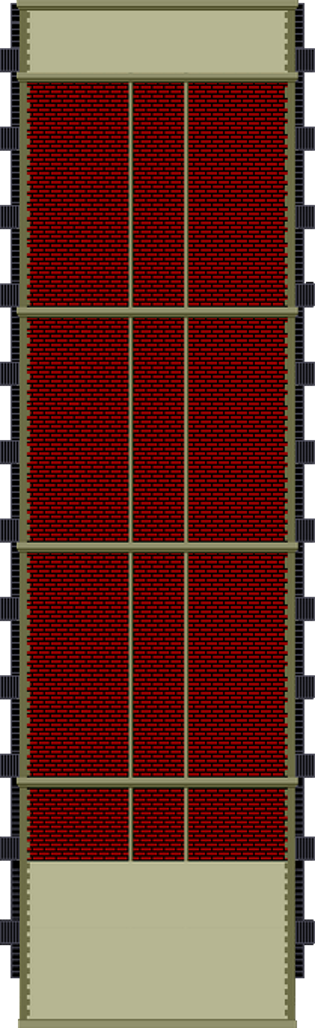
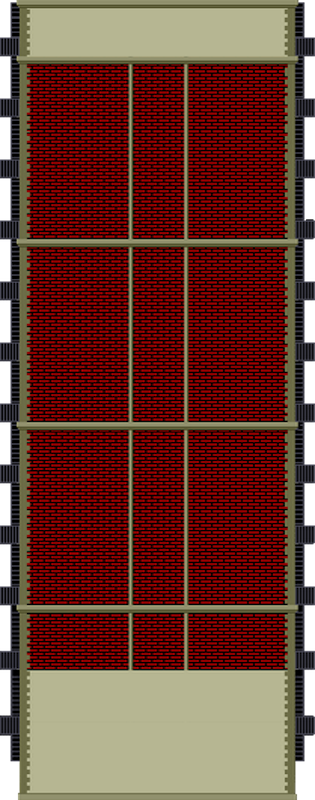
Unos pares de fixes de tamaño

diff --git a/src/grafica/menu/Play.java b/src/grafica/menu/Play.java
@@ -34,7 +34,7 @@ public class Play extends Grafica {
 		setLayout(new FlowLayout());
 		add(goBack);
 //		setContentPane(fondo);
-		setSize(919, 720);
+		setSize(800, 1028);
 		setVisible(true);
 		cargarNiceland();
 		try{
@@ -49,8 +49,8 @@ public class Play extends Grafica {
 	}
 
 	public void cargarNiceland(){
-		BufferedImage img = secciones.get("edificio_150_seccion1.png");
-		this.getGraphics().drawImage(img, horEdificio, verEdificio, null);
+		BufferedImage img = secciones.get("edificio_150_copy.png");
+		this.getGraphics().drawImage(img, horEdificio, 0, null);
 	}
 
 	public void paintComponents(Graphics g){
